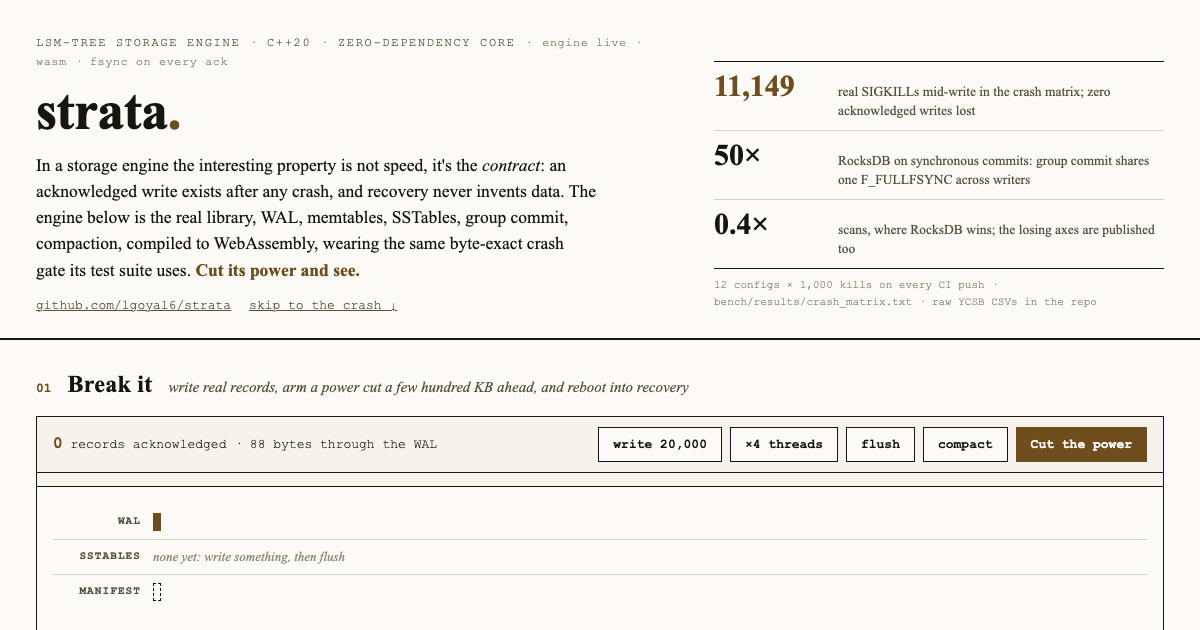
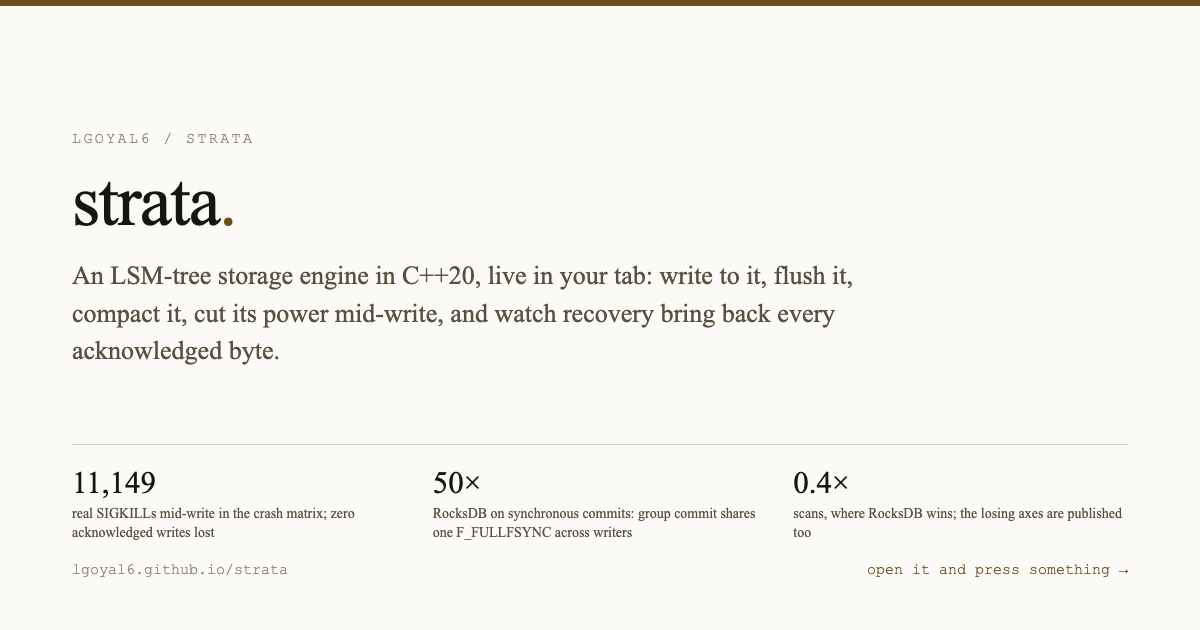
docs: lead the README with the demo card
The link to the live page sat twenty to thirty lines down, under the
architecture paragraph, so the first impression of the repo was prose.
Now the first thing in the README is a card carrying this project's
headline number, and clicking it opens the demo.

The same image is the og:image on the page, so a shared link previews
the finding instead of a bare URL. Also drops the lateral "also:"
footer links: each demo belongs to its own repository and has no
reason to advertise the others.

diff --git a/README.md b/README.md
@@ -1,3 +1,11 @@
+<a href="https://lgoyal6.github.io/strata/">
+  <img alt="strata - open the live demo" src="docs/og.png">
+</a>
+
+**[Open the live demo](https://lgoyal6.github.io/strata/)** - The
+real engine compiled to WebAssembly: write to it, cut its power mid-write, and
+watch recovery bring back every acknowledged byte.
+
 # strata
 
 A leveled LSM-tree key-value store in C++20 with **provable crash
@@ -15,10 +23,6 @@ acknowledged write recovered afterwards. Reproduce it with
 `./docs/demo-setup.sh && vhs docs/demo.tape`. Note the honest scope: this kills
 the process, not the machine, so it verifies the engine's contract rather than
 the drive's.
-
-**Live demo:** [lgoyal6.github.io/strata](https://lgoyal6.github.io/strata/), the
-real engine compiled to WebAssembly: write to it, cut its power mid-write, and
-watch recovery bring back every acknowledged byte.
 
 > **Thesis.** In a storage engine the interesting property is not speed,
 > it's the *contract*: an acknowledged write exists after any crash, and
